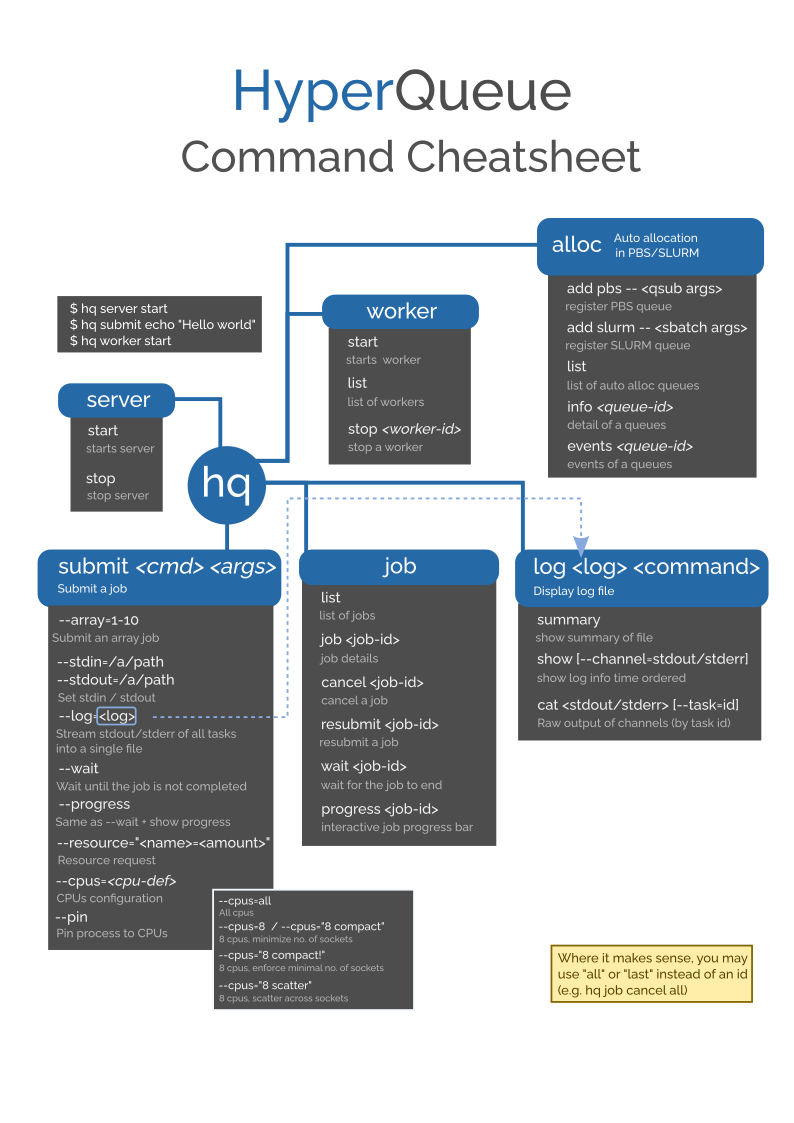
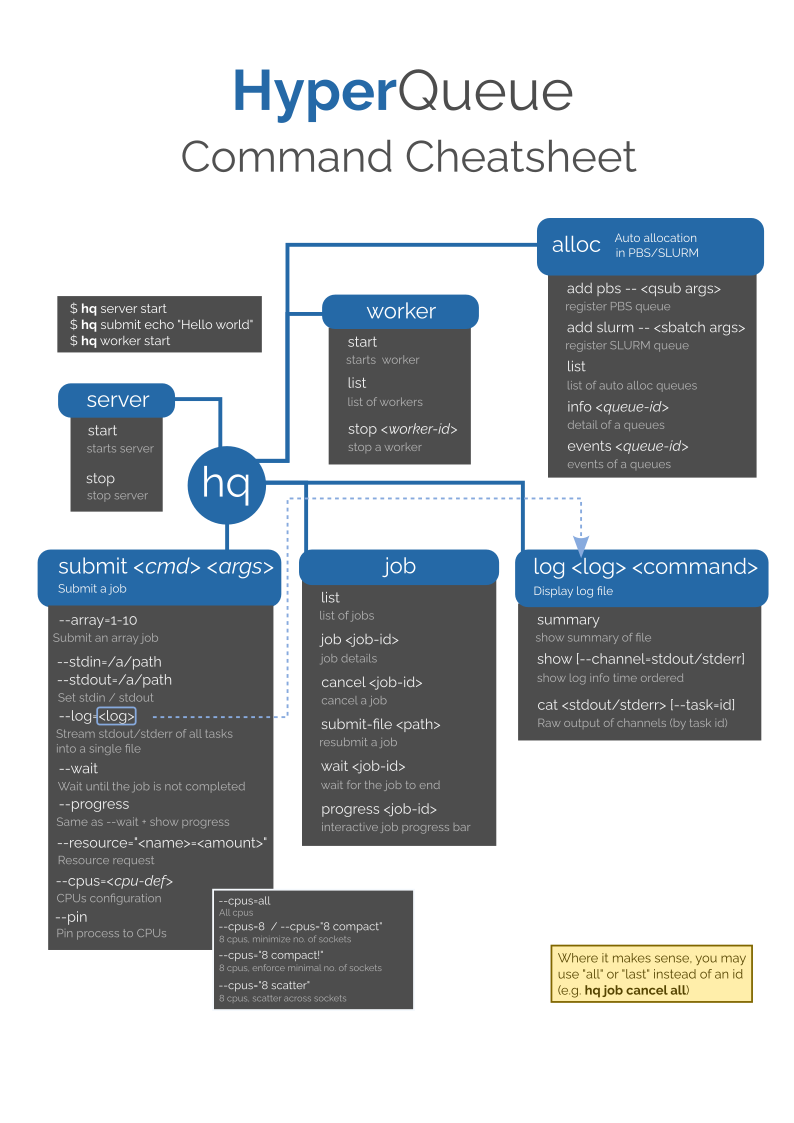
Docs updated

diff --git a/crates/hyperqueue/src/server/client/submit.rs b/crates/hyperqueue/src/server/client/submit.rs
@@ -220,7 +220,7 @@ fn build_tasks_array(
         Some(entries) => ids
             .iter()
             .zip(tako_base_id..)
-            .zip(entries.into_iter())
+            .zip(entries)
             .map(|((task_id, tako_id), entry)| {
                 build_task_conf(
                     serialize_task_body(&ctx, task_id.into(), Some(entry), &task_desc),

diff --git a/CHANGELOG.md b/CHANGELOG.md
@@ -2,7 +2,8 @@
 
 ## Breaking change
 
-* Mechanism for resubmitting tasks was changed. Command `resubmit` was removed, see the manual for replacement.
+* Mechanism for resubmitting tasks was changed. Command `resubmit` was removed,
+  see https://it4innovations.github.io/hyperqueue/latest/jobs/failure/ for replacement.
 
 * The output format of the `job info` command with JSON output mode has been changed. Note that
 the JSON output mode is still unstable.
